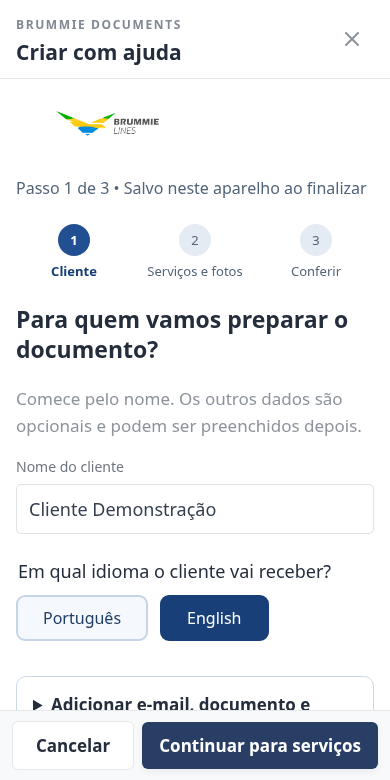
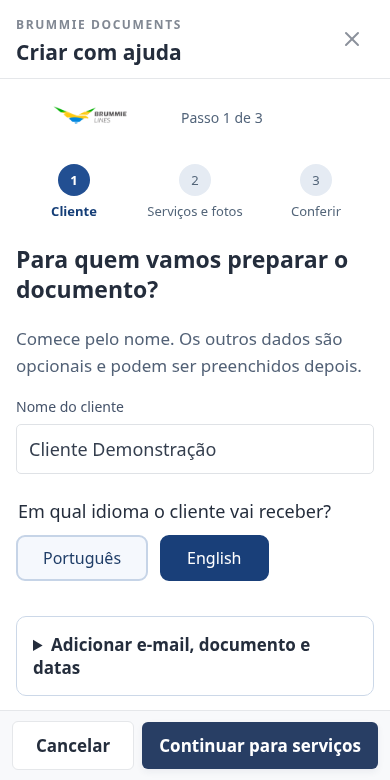
fix: keep client entry visible on small phones and scroll native fields into view

diff --git a/src/style.css b/src/style.css
@@ -1984,12 +1984,12 @@ aside {
   display: flex;
   align-items: center;
   gap: 20px;
-  flex-wrap: wrap;
+  flex-wrap: nowrap;
   color: #52647a;
 }
 .guided-heading img {
-  width: 180px;
-  height: 62px;
+  width: 145px;
+  height: 44px;
   object-fit: contain;
 }
 .guided-progress {
@@ -2138,3 +2138,5 @@ aside {
 }
 .compact-preview>h3,.compact-preview>p:not(.error):not(.preview-stale){display:none}
 .compact-preview{padding:0;border:0}.compact-preview .preview-layout-options{margin:0 0 12px}.compact-preview .free-tools{font-size:15px}
+
+.guided-heading>span{font-size:14px;white-space:nowrap}.guided-body .field>span{color:#45536a}.guided-body .form-section>p{color:#526176}

diff --git a/src/guided-document.jsx b/src/guided-document.jsx
@@ -59,7 +59,7 @@ export function GuidedDocument({
           <div className="guided-heading">
             <img src={linesLogo} alt="Brummie Lines" />
             <span>
-              Passo {step + 1} de 3 • Salvo neste aparelho ao finalizar
+              Passo {step + 1} de 3
             </span>
           </div>
           <ol className="guided-progress" aria-label="Etapas da criação">

diff --git a/scripts/android-phone-smoke.py b/scripts/android-phone-smoke.py
@@ -58,6 +58,13 @@ try:
     bottom_before = rect(find('Continuar para serviços'))[3]
     root = snapshot()
     fields = [node for node in root.iter('node') if node.get('class') == 'android.widget.EditText' and len(rect(node)) == 4 and rect(node)[3] > rect(node)[1]]
+    for _ in range(8):
+        if fields:
+            break
+        screen_width, screen_height = device.window_size()
+        adb('shell', 'input', 'swipe', str(screen_width//2), str(screen_height-180), str(screen_width//2), '180', '350')
+        root = snapshot()
+        fields = [node for node in root.iter('node') if node.get('class') == 'android.widget.EditText' and len(rect(node)) == 4 and rect(node)[3] > rect(node)[1]]
     assert fields, 'The document form must expose editable fields to Android accessibility'
     left, top, right, bottom = rect(fields[0])
     adb('shell', 'settings', 'put', 'secure', 'show_ime_with_hard_keyboard', '1')

diff --git a/docs/android-mobile.md b/docs/android-mobile.md
@@ -1,6 +1,6 @@
 # Android: uma interface para o celular
 
-A versão 2.0.4 adapta a interface ao uso no celular, mantendo o mínimo Android 8 e o funcionamento offline. A instalação continua sendo um APK TEST com identificador separado por versão; não substitui instalações anteriores nem suas bibliotecas.
+A versão 2.0.5 adapta a interface ao uso no celular, mantendo o mínimo Android 8 e o funcionamento offline. A instalação continua sendo um APK TEST com identificador separado por versão; não substitui instalações anteriores nem suas bibliotecas.
 
 - Navegação inferior: Início, Criar e Documentos.
 - Biblioteca e backup agrupados para deixar a criação à frente.
